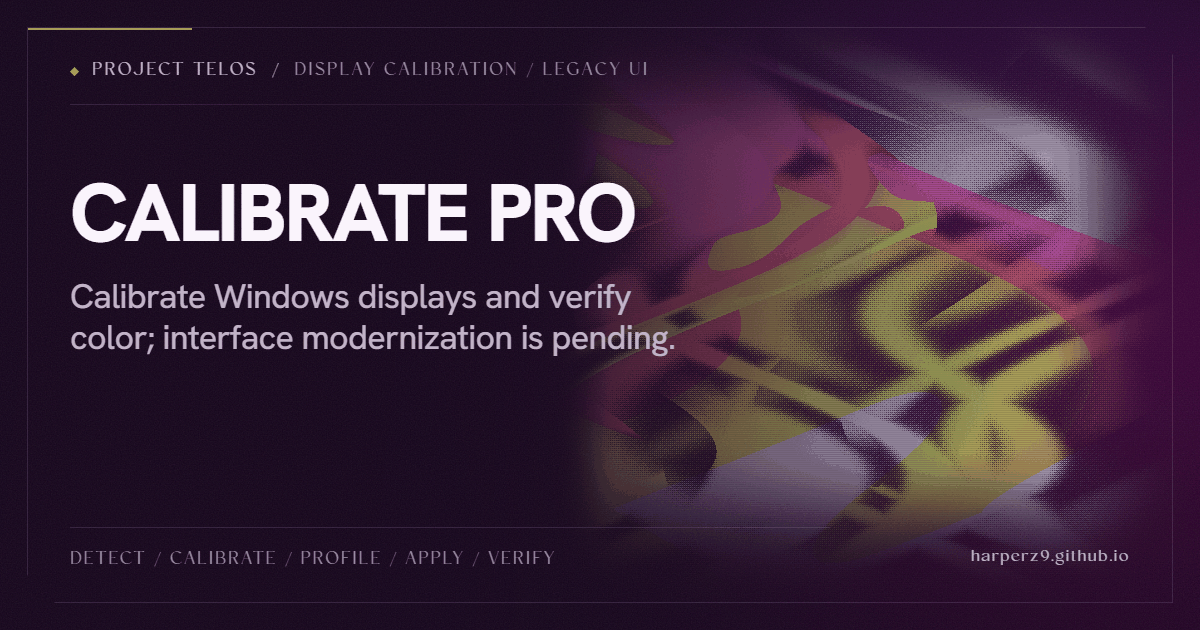
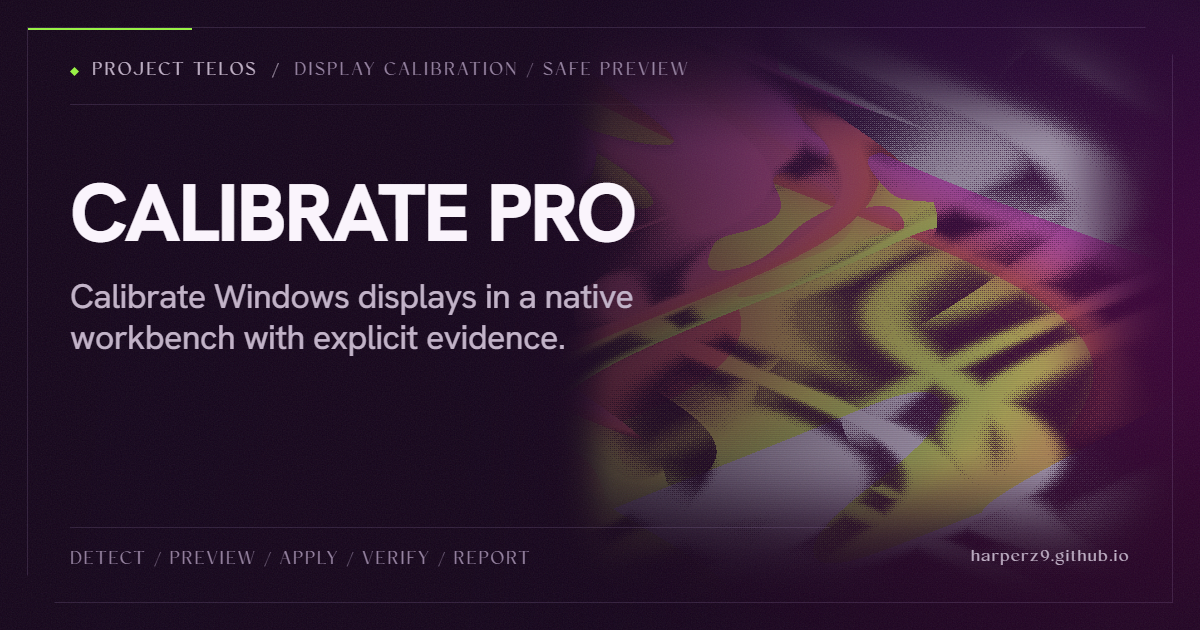
Publish current Calibrate Pro native preview (#65)
Replace stale legacy-UI claims with reviewed current-main evidence, a provenance receipt, and regenerated social card.

diff --git a/build-products.html b/build-products.html
@@ -12,14 +12,23 @@
 <meta property="og:title" content="The Build products: standalone tools you can run today">
 <meta property="og:description" content="The Build suite: Calibrate Pro 1.1.0 for confirmed Windows display-calibration workflows, plus practical forecasting, paper-trading, interface, and color tools. Public release, source, standalone, and PyPI distribution paths. By Zain Dana Harper.">
 <meta property="og:url" content="https://harperz9.github.io/build-products.html">
-<meta property="og:image" content="https://harperz9.github.io/img/og/telos.png">
-<meta property="og:image:alt" content="A still from the engine: a Kepler orbit with its conserved angular momentum fitted from the trace, real mathematics drawn by our own code.">
+<meta property="og:image" content="https://harperz9.github.io/img/og/calibrate-pro.png">
+<meta property="og:image:alt" content="Project Telos card for Calibrate Pro: Windows display calibration in a native workbench with explicit evidence.">
 <meta name="twitter:card" content="summary_large_image">
 <meta name="twitter:title" content="The Build products: standalone tools you can run today">
 <meta name="twitter:description" content="The Build suite: Calibrate Pro 1.1.0 for confirmed Windows display-calibration workflows, plus practical forecasting, paper-trading, interface, and color tools. Public release, source, standalone, and PyPI distribution paths. By Zain Dana Harper.">
-<meta name="twitter:image" content="https://harperz9.github.io/img/og/telos.png">
+<meta name="twitter:image" content="https://harperz9.github.io/img/og/calibrate-pro.png">
 <meta name="color-scheme" content="dark">
 <link rel="stylesheet" href="system/system.css?v=20260711a">
+<style>
+  .calibrate-preview{margin:clamp(2rem,5vw,4rem) 0 0;max-width:70rem}
+  .calibrate-preview img{display:block;width:100%;height:auto;aspect-ratio:16/10;object-fit:cover;border:1px solid var(--rule-strong);border-radius:6px;background:#0e1014}
+  .calibrate-preview figcaption{margin-top:.7rem;max-width:66rem;font-family:var(--mono);font-size:.7rem;line-height:1.65;color:var(--ink-soft)}
+  .calibrate-preview a{color:inherit;text-underline-offset:.22em}
+  .calibrate-facts{display:flex;flex-wrap:wrap;gap:.45rem .7rem;margin:.85rem 0 0;padding:0;list-style:none;font-family:var(--mono);font-size:.64rem;letter-spacing:.08em;text-transform:uppercase;color:var(--muted)}
+  .calibrate-facts li{padding:.34rem .52rem;border:1px solid var(--hairline);border-radius:4px}
+  @media(max-width:680px){.calibrate-preview{margin-top:1.6rem}.calibrate-preview figcaption{font-size:.66rem}.calibrate-facts{gap:.35rem}}
+</style>
 </head>
 <body class="inner-clean">
 <a class="skip-link" href="#main">Skip to content</a>
@@ -43,9 +52,19 @@
 
 <!-- calibrate-pro -->
 <section class="mv" id="calibrate" aria-labelledby="calibrate-h">
-  <h2 id="calibrate-h" class="reveal">calibrate-pro 1.1: mature calibration core, legacy interface.</h2>
+  <h2 id="calibrate-h" class="reveal">calibrate-pro: released v1.1.0 core; native workbench on current main.</h2>
   <p class="body-text reveal">A Windows display-calibration toolkit for characterized and measured workflows. Its current <b>PySide6</b> desktop application follows one bounded path: Detect &rarr; Method &rarr; Preview &rarr; Apply &rarr; Verify &rarr; Save/Report. It starts unelevated, previews the exact plan before a display write, and requires explicit confirmation before Apply; rejected, expired, substituted, or unsupported plans perform no write. The <b>read-only CLI diagnostics</b> cover installation and capability checks, calibration targets, characterized panels, stored evidence, HDR status, test patterns, and plugin discovery. Legacy direct-action names are <b>proposal-only</b>: they point to the GUI workflow instead of changing display state.</p>
-  <p class="body-text reveal">The core includes DDC/CI control where the monitor supports it, ICC/VCGT and LUT tooling, and native i1Display3 measurement support. Sensorless results are labelled <b>estimated</b>, not measured performance; a measured result requires a supported instrument, and missing observations remain <b>Not measured</b>. The calibration core and 1.1 packaging are current. The visual interface is still the legacy interface and is explicitly on the <b>modernization track</b>.</p>
+  <p class="body-text reveal">The core includes DDC/CI control where the monitor supports it, ICC/VCGT and LUT tooling, and native i1Display3 measurement support. Sensorless results are labelled <b>estimated</b>, not measured performance; a measured result requires a supported instrument, and missing observations remain <b>Not measured</b>. The public 1.1.0 release remains the beta distribution. Current <b>main</b> now owns a restrained dark-room theme with explicit focus, pressed, disabled, and checked states. Its hardware-free public preview uses a bundled generic fixture, marks demonstrated values <b>simulated</b> or <b>Not measured</b>, constructs no hardware-dependent workflow pages or services, and disables display/profile mutations.</p>
+  <figure class="calibrate-preview reveal">
+    <img src="media/demos/calibrate-pro/calibrate-pro-native-preview.png" alt="Calibrate Pro current dark-room desktop workbench in Simulated preview mode, showing one generic reference display and disabled calibration actions" width="1440" height="900" decoding="async">
+    <figcaption><b>Simulated preview.</b> The banner states <b>no hardware access</b> and <b>no display changes</b>; the fixture separates simulated values from Not measured observations. This current-source evidence was reviewed in <a href="https://github.com/HarperZ9/calibrate-pro/pull/12" rel="noopener">PR #12</a> and merged at <a href="https://github.com/HarperZ9/calibrate-pro/commit/8ed017577b34c7a6d2bfe04a17a254f377ad7b7c" rel="noopener"><code translate="no">8ed0175</code></a>. It is not a measurement result or a claim that the earlier v1.1.0 binaries were rebuilt.</figcaption>
+  </figure>
+  <ul class="calibrate-facts reveal" aria-label="Calibrate Pro preview facts">
+    <li>1440 &times; 900 native render</li>
+    <li>bundled public fixture</li>
+    <li>mutation actions disabled</li>
+    <li>Linux + Windows CI</li>
+  </ul>
   <em class="close reveal">The color-science origin: years of film LUT pipelines and display work, packaged into a tool a person can actually run.</em>
 </section>
 
@@ -62,7 +81,7 @@
 <section class="proof" id="proof" aria-labelledby="proof-h">
   <div class="proof-head">
     <h2 id="proof-h" class="reveal">The suite, and one tool reporting itself.</h2>
-    <p class="body-text reveal"><b>build-ui</b> is the shared visual style and controls library for the companion GUI tools. Calibrate Pro 1.1 uses the newer Build UI 2 integration with PySide6. <b>build-ecosystem</b> is the single package that installs the whole set in one command, and <a href="build-color.html" style="color:var(--bone);text-decoration:none;border-bottom:1px solid rgba(58,43,214,.45)" translate="no">build-color</a> is the color-science member, with its own page. Here is Calibrate Pro reporting its current operator boundary.</p>
+    <p class="body-text reveal"><b>build-ui</b> is the shared controls library for the companion GUI tools. Calibrate Pro&rsquo;s current main branch uses those PySide6 widgets under a Calibrate-owned dark-room theme. <b>build-ecosystem</b> is the single package that installs the whole set in one command, and <a href="build-color.html" style="color:var(--bone);text-decoration:none;border-bottom:1px solid rgba(58,43,214,.45)" translate="no">build-color</a> is the color-science member, with its own page. Here is Calibrate Pro reporting its operator boundary.</p>
   </div>
 
   <div class="exhibit reveal">
@@ -93,7 +112,7 @@ and explicitly confirm Apply. No display state was changed.</pre>
 <!-- honest -->
 <section class="mv" id="limits" aria-labelledby="limits-h">
   <h2 id="limits-h" class="reveal">Where they really are.</h2>
-  <p class="body-text reveal">These are real, tested software you can use today, a product line that also funds the slower accountability and language work and gives it somewhere practical to land. <b>calibrate-pro</b> has the most complete release path and the strongest operator boundary, while its legacy visual design remains a disclosed modernization track. <b>build-oracle</b>, <b>build-finance</b>, and <b>build-engine</b> are substantive beta toolkits with named, tested methods, built paper-first with their risk checks on by default. <b>build-ui</b> and <b>build-ecosystem</b> are exactly what they sound like, the shared look and the one-command installer: small glue, not headline products.</p>
+  <p class="body-text reveal">These are real, tested software you can use today, a product line that also funds the slower accountability and language work and gives it somewhere practical to land. <b>calibrate-pro</b> has the most complete release path and the strongest operator boundary; its current source now has the native dark-room workbench shown above, while the public 1.1.0 distribution remains honestly beta. <b>build-oracle</b>, <b>build-finance</b>, and <b>build-engine</b> are substantive beta toolkits with named, tested methods, built paper-first with their risk checks on by default. <b>build-ui</b> and <b>build-ecosystem</b> are exactly what they sound like, the shared controls and the one-command installer: small glue, not headline products.</p>
   <p class="pull reveal">Tested and usable, honestly beta, with the distribution path named for each member: Calibrate Pro on GitHub Releases, four companion packages on PyPI, and the remaining tools from source.</p>
   <div class="channels reveal">
     <span class="g">GitHub</span>: <a href="https://github.com/HarperZ9" translate="no">HarperZ9</a>

diff --git a/img/og/cards-data.js b/img/og/cards-data.js
@@ -189,9 +189,9 @@ window.CARD_DATA = {
     "glyph": "seal"
   },
   "calibrate-pro": {
-    "role": "DISPLAY CALIBRATION / LEGACY UI",
-    "headline": "Calibrate Windows displays and verify color; interface modernization is pending.",
-    "pipeline": "DETECT / CALIBRATE / PROFILE / APPLY / VERIFY",
+    "role": "DISPLAY CALIBRATION / SAFE PREVIEW",
+    "headline": "Calibrate Windows displays in a native workbench with explicit evidence.",
+    "pipeline": "DETECT / PREVIEW / APPLY / VERIFY / REPORT",
     "word": "CALIBRATE PRO",
     "glyph": "waveform"
   },

diff --git a/overview.html b/overview.html
@@ -275,7 +275,7 @@
       <div class="organ-row">
         <span class="organ-name"><a href="https://github.com/HarperZ9/calibrate-pro" rel="noopener" translate="no">calibrate pro</a></span>
         <span class="organ-role">display calibration</span>
-        <span class="organ-line">Windows display calibration with measured profiles, 3D LUTs, DDC/CI monitor control, and a verification pass that proves the correction landed. Public. <em>Legacy interface; modernization pending.</em></span>
+        <span class="organ-line">Windows display calibration with measured profiles, 3D LUTs, DDC/CI monitor control, and a verification pass that proves the correction landed. Current main includes a native dark-room workbench and a hardware-free public preview; the v1.1.0 distribution remains beta.</span>
         <span class="organ-verdict"><span class="verdict verdict-shipped">Public</span></span>
       </div>
     </div>

diff --git a/tests/test_calibrate_preview_evidence.py b/tests/test_calibrate_preview_evidence.py
@@ -1,0 +1,62 @@
+"""Contracts for current, truthful Calibrate Pro public evidence."""
+
+from pathlib import Path
+
+
+ROOT = Path(__file__).resolve().parents[1]
+PREVIEW = "media/demos/calibrate-pro/calibrate-pro-native-preview.png"
+
+
+def _png_dimensions(payload: bytes) -> tuple[int, int]:
+    assert payload[:8] == b"\x89PNG\r\n\x1a\n"
+    assert payload[12:16] == b"IHDR"
+    return int.from_bytes(payload[16:20], "big"), int.from_bytes(payload[20:24], "big")
+
+
+def test_build_products_uses_current_native_preview() -> None:
+    page = (ROOT / "build-products.html").read_text(encoding="utf-8")
+    for value in (
+        "native workbench on current main",
+        PREVIEW,
+        "Simulated preview",
+        "no hardware access",
+        "no display changes",
+        "https://github.com/HarperZ9/calibrate-pro/pull/12",
+        "8ed0175",
+        "https://harperz9.github.io/img/og/calibrate-pro.png",
+    ):
+        assert value in page
+
+    assert "legacy interface" not in page.lower()
+    assert "legacy visual design" not in page.lower()
+
+
+def test_calibrate_preview_asset_is_a_1440_by_900_png() -> None:
+    import hashlib
+
+    image_path = ROOT / PREVIEW
+    payload = image_path.read_bytes()
+    assert hashlib.sha256(payload).hexdigest() == (
[1 lines of base64/hex data omitted]
+    )
+    assert _png_dimensions(payload) == (1440, 900)
+    receipt = image_path.with_name("README.md").read_text(encoding="utf-8")
+    assert "8ed017577b34c7a6d2bfe04a17a254f377ad7b7c" in receipt
[1 lines of base64/hex data omitted]
+
+
+def test_overview_and_card_data_no_longer_advertise_legacy_ui() -> None:
+    overview = (ROOT / "overview.html").read_text(encoding="utf-8")
+    cards = (ROOT / "img" / "og" / "cards-data.js").read_text(encoding="utf-8")
+
+    assert "native dark-room workbench" in overview
+    assert "Legacy interface; modernization pending." not in overview
+    assert '"role": "DISPLAY CALIBRATION / SAFE PREVIEW"' in cards
+    assert "interface modernization is pending" not in cards.lower()
+
+
+def test_calibrate_social_card_is_present() -> None:
+    image_path = ROOT / "img" / "og" / "calibrate-pro.png"
+    payload = image_path.read_bytes()
+    assert image_path.stat().st_size > 100_000
+    assert _png_dimensions(payload) == (1200, 630)

diff --git a/docs/superpowers/plans/2026-07-12-calibrate-preview-evidence.md b/docs/superpowers/plans/2026-07-12-calibrate-preview-evidence.md
@@ -1,0 +1,34 @@
+# Calibrate Pro current-preview publication plan
+
+**Goal:** Replace stale public claims that Calibrate Pro still uses its legacy UI
+with current, truthful evidence from the reviewed native dark-room workbench.
+
+## Evidence boundary
+
+- The public v1.1.0 binaries remain the earlier beta distribution.
+- Current source evidence comes from Calibrate Pro PR #12, merged at
+  `8ed017577b34c7a6d2bfe04a17a254f377ad7b7c`.
+- The screenshot is a deterministic 1440 × 900 render of a bundled generic
+  fixture. It is not a physical display measurement or release-binary receipt.
+- Simulated and Not measured values stay visibly distinct; preview mode performs
+  no hardware discovery or display/profile mutation.
+
+## Changes
+
+- [x] Add the verified preview PNG and a public provenance/limitations receipt.
+- [x] Update `build-products.html` with the current workbench, source/release
+  distinction, explicit preview boundary, responsive figure, and review links.
+- [x] Remove the stale modernization-pending statement from `overview.html`.
+- [x] Update the Calibrate Pro Telos card data and regenerate its 1200 × 630 PNG.
+- [x] Add regression tests for copy, source provenance, image dimensions, hashes,
+  and the removal of stale legacy-UI claims.
+
+## Verification
+
+- `python -m pytest tests -q -p no:cacheprovider` — 14 passed.
+- `node tests/linkcheck.mjs` with the site served on port 8802 — 541 internal
+  links across 78 pages, 0 broken.
+- `git diff --check` — clean.
+- Changed-text credential/local-path scan — clean.
+- Desktop page, printed evidence layout, native screenshot, and social card were
+  inspected at original resolution.

diff --git a/media/demos/calibrate-pro/README.md b/media/demos/calibrate-pro/README.md
@@ -1,0 +1,23 @@
+# Calibrate Pro native preview
+
+This package is current public UI evidence for Calibrate Pro after the dark-room
+workbench and hardware-free preview work merged to `main`.
+
+- Source repository: <https://github.com/HarperZ9/calibrate-pro>
+- Reviewed change: <https://github.com/HarperZ9/calibrate-pro/pull/12>
+- Merge commit: `8ed017577b34c7a6d2bfe04a17a254f377ad7b7c`
+- Renderer: `scripts/render_gui_preview.py` in that source revision
+- Output: `calibrate-pro-native-preview.png`, 1440 × 900, 57,287 bytes
[1 lines of base64/hex data omitted]
+
+The screenshot uses one bundled generic display fixture. Demonstrated values are
+labelled simulated; absent observations are labelled Not measured. Preview mode
+does not enumerate display hardware, open USB/DDC devices, construct mutation-
+capable workflow pages, start tray/startup services, export to a user path, or
+apply display/profile changes. Disabled controls remain visible so the public
+asset shows the native product surface without suggesting that an operation ran.
+
+This is not a colorimeter result, compatibility claim, release-binary receipt,
+or proof that calibration succeeded on physical hardware. The public v1.1.0
+binary release remains the earlier beta distribution; this asset represents the
+current source UI merged after that release.